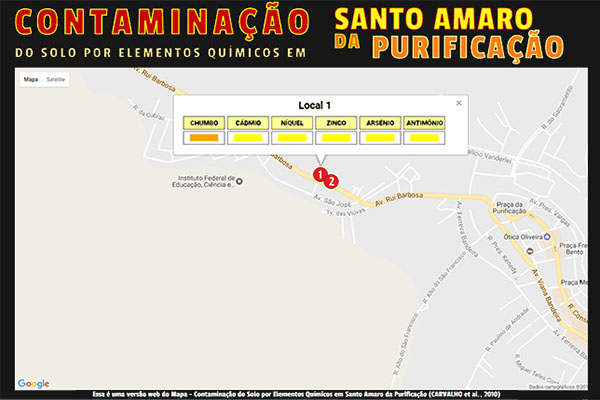
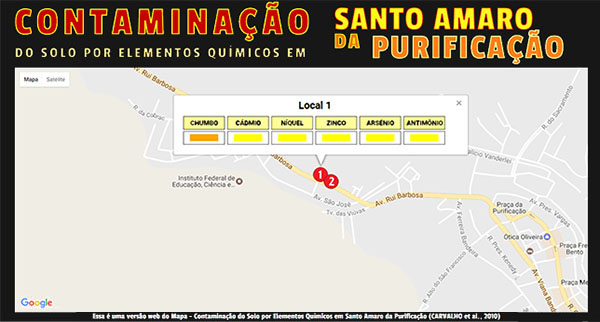
update image iconpage

diff --git a/index.html b/index.html
@@ -9,7 +9,7 @@
   <meta property="og:image" content="/iconpage2.jpg">
   <meta property="og:image:type" content="image/jpeg">
   <meta property="og:image:width" content="600">
-  <meta property="og:image:height" content="400">
+  <meta property="og:image:height" content="350">
 
   <title>Mapa digital da contaminação - Santo Amaro, BA</title>
     <style type="text/css">
